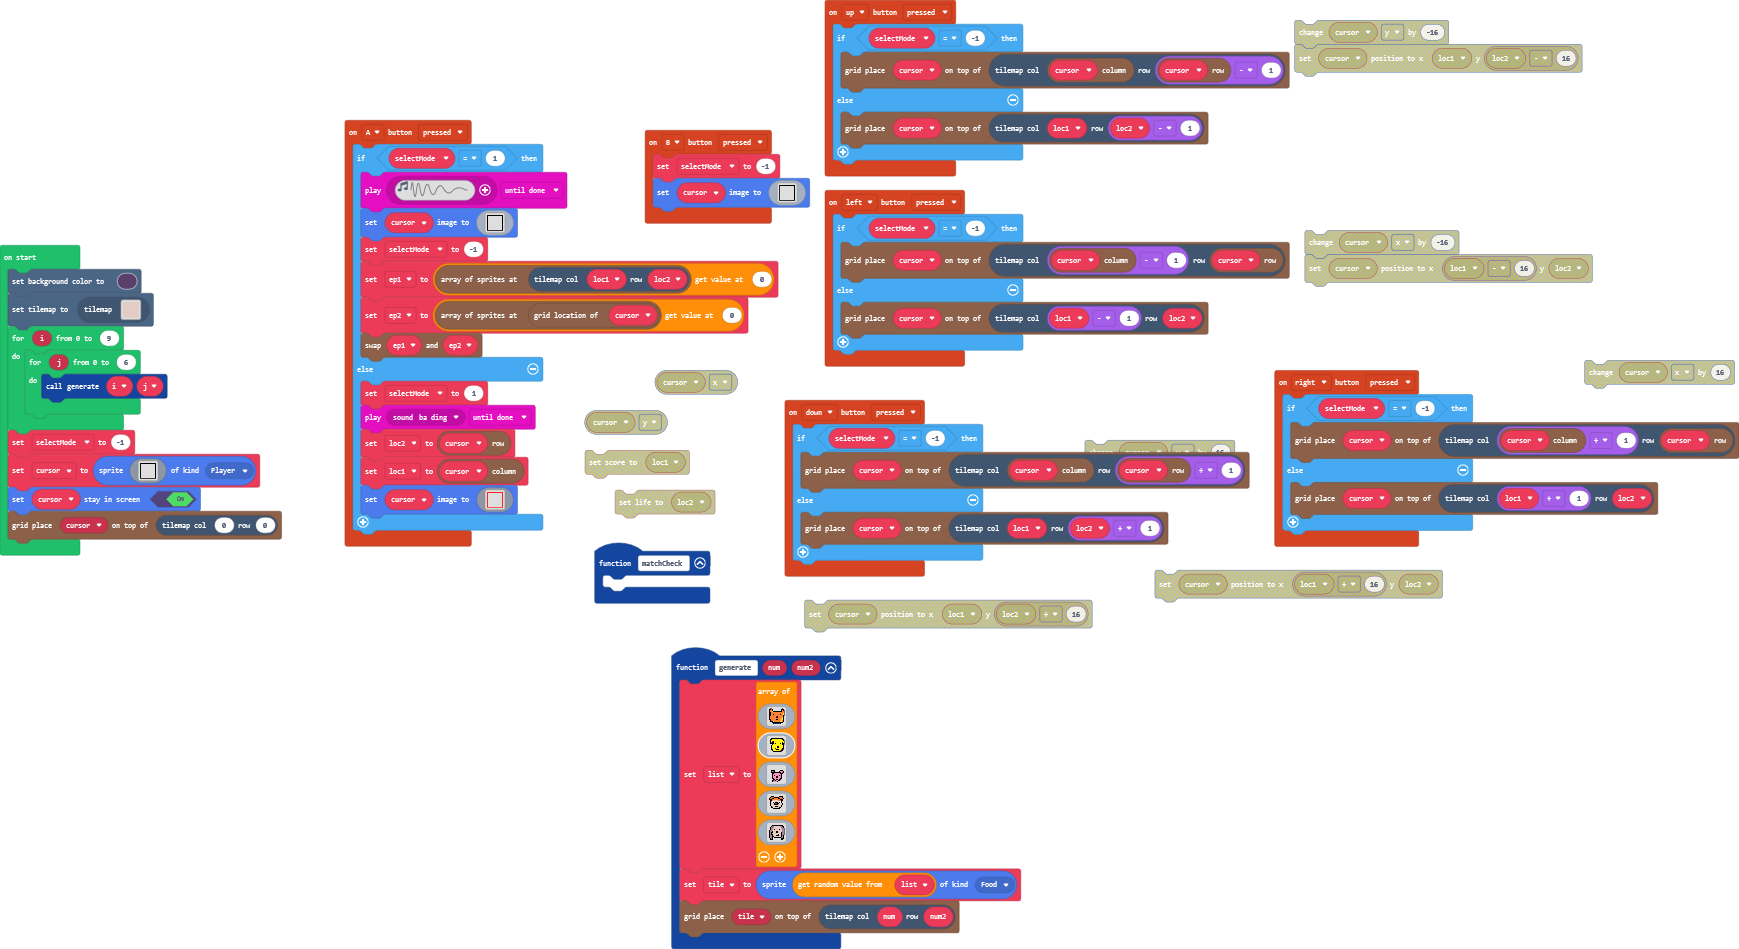
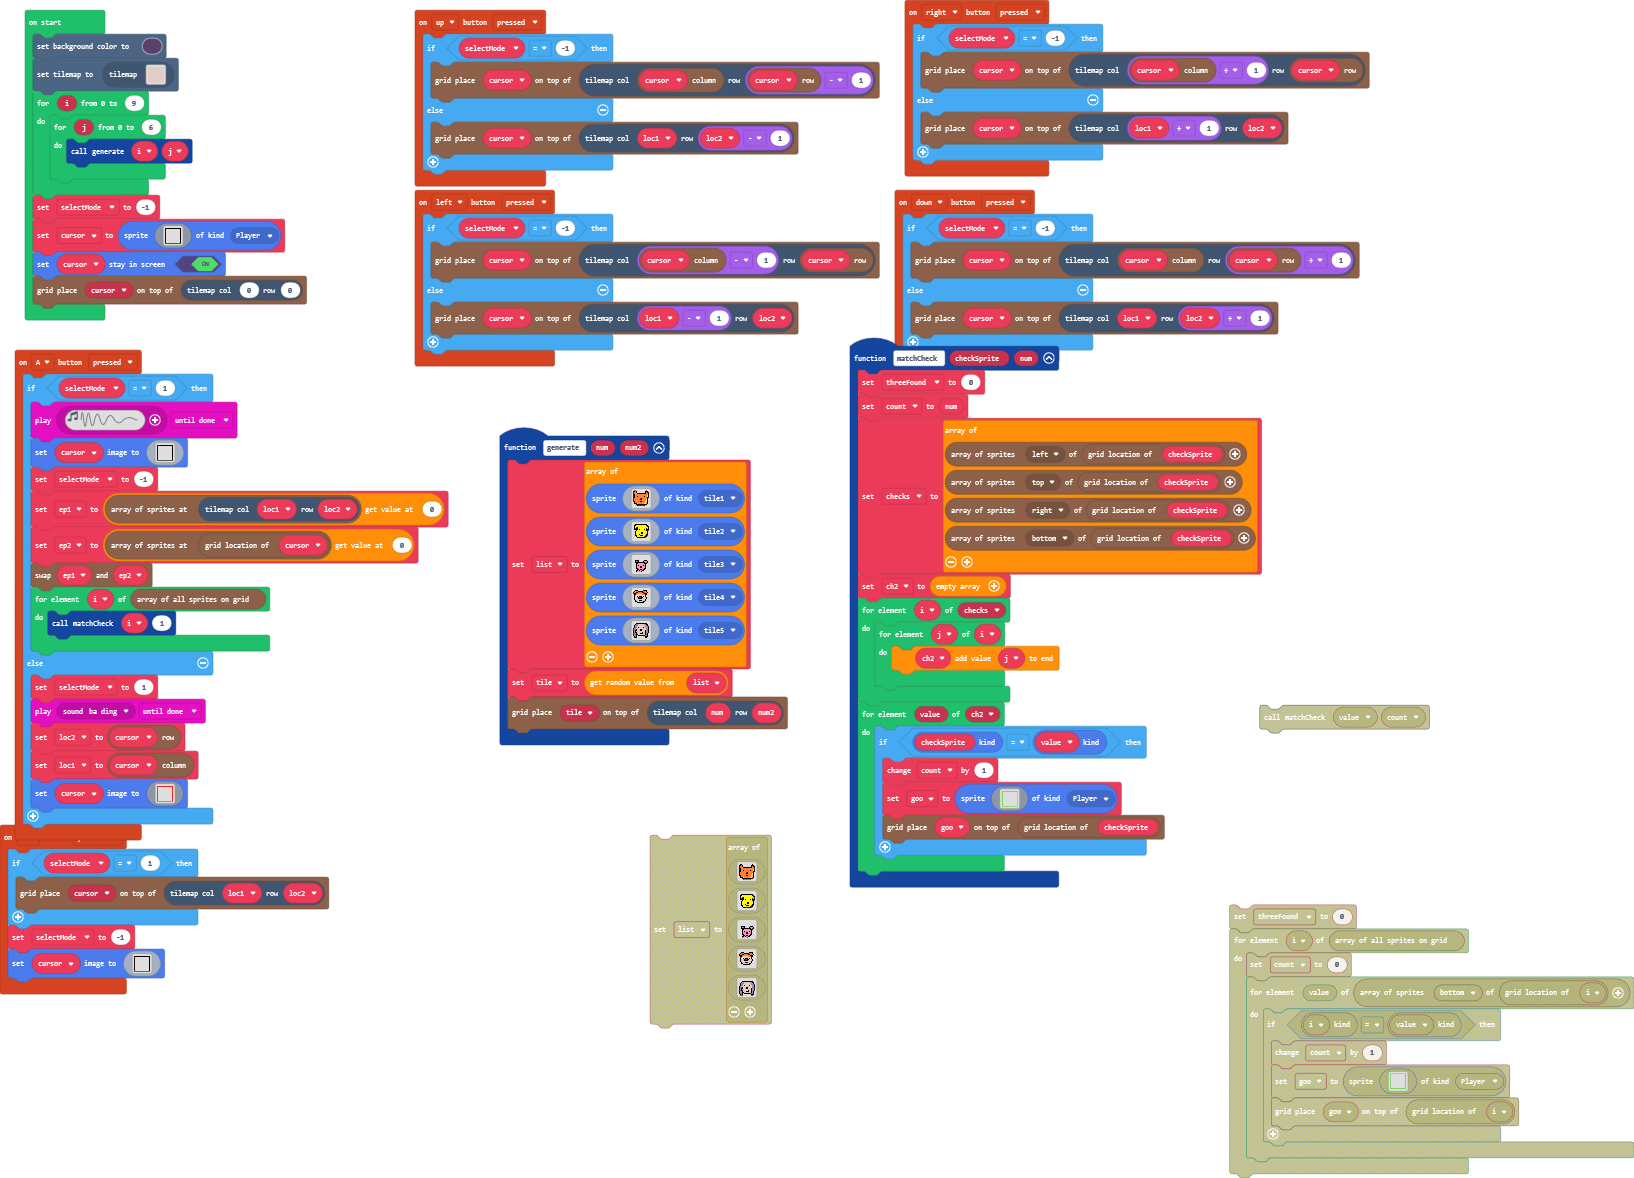
Added swapping and single layer of recursion for match checking.

diff --git a/main.ts b/main.ts
@@ -1,3 +1,10 @@
+namespace SpriteKind {
+    export const tile1 = SpriteKind.create()
+    export const tile2 = SpriteKind.create()
+    export const tile3 = SpriteKind.create()
+    export const tile4 = SpriteKind.create()
+    export const tile5 = SpriteKind.create()
+}
 controller.up.onEvent(ControllerButtonEvent.Pressed, function () {
     if (selectMode == -1) {
         grid.place(cursor, tiles.getTileLocation(grid.spriteCol(cursor), grid.spriteRow(cursor) - 1))
@@ -6,6 +13,9 @@ controller.up.onEvent(ControllerButtonEvent.Pressed, function () {
     }
 })
 controller.B.onEvent(ControllerButtonEvent.Pressed, function () {
+    if (selectMode == 1) {
+        grid.place(cursor, tiles.getTileLocation(loc1, loc2))
+    }
     selectMode = -1
     cursor.setImage(img`
         f f f f f f f f f f f f f f f f 
@@ -51,6 +61,9 @@ controller.A.onEvent(ControllerButtonEvent.Pressed, function () {
         ep1 = grid.getSprites(tiles.getTileLocation(loc1, loc2))[0]
         ep2 = grid.getSprites(grid.getLocation(cursor))[0]
         grid.swap(ep1, ep2)
+        for (let i of grid.allSprites()) {
+            matchCheck(i, 1)
+        }
     } else {
         selectMode = 1
         music.play(music.melodyPlayable(music.baDing), music.PlaybackMode.UntilDone)
@@ -99,7 +112,7 @@ controller.down.onEvent(ControllerButtonEvent.Pressed, function () {
 })
 function generate (num: number, num2: number) {
     list = [
-    img`
+    sprites.create(img`
         . f f . . . . . . . . . . f . . 
         f f 4 f . . . . . . . . f f f . 
         f 4 4 f . . . . . . . . f 4 f f 
@@ -116,8 +129,8 @@ function generate (num: number, num2: number) {
         . f f f 5 4 4 4 4 4 4 5 5 4 f . 
         . . . f f f f f f f f f f f . . 
         . . . . f 8 8 8 8 8 c f . . . . 
-        `,
-    img`
+        `, SpriteKind.tile1),
+    sprites.create(img`
         . . . . . . . . . . . . . . . . 
         . . f f f f f f f f f f f f . . 
         . f f 5 5 5 5 5 5 5 5 5 5 f f . 
@@ -134,8 +147,8 @@ function generate (num: number, num2: number) {
         . . . f 5 5 5 5 5 5 5 e f f . . 
         . . . . f f f f f f f f e . . . 
         . . . . . . . . . . . . . . . . 
-        `,
-    img`
+        `, SpriteKind.tile2),
+    sprites.create(img`
         . . . . . . . . . . . . . . . . 
         . . . . . . . . . . . . . . . . 
         . . . . . . . . . . . . . . . . 
@@ -152,8 +165,8 @@ function generate (num: number, num2: number) {
         . . . . f f 3 f f 3 f f . . . . 
         . . . f f 3 f 3 3 f f . . . . . 
         . . . f 3 3 3 3 f . . . . . . . 
-        `,
-    img`
+        `, SpriteKind.tile3),
+    sprites.create(img`
         . . . . . . . . . . . . . . . . 
         . . f f f . . . . . f f f f . . 
         . f 4 4 4 f f f f f 4 4 4 f . . 
@@ -170,8 +183,8 @@ function generate (num: number, num2: number) {
         . . . . f f f f f f f . . . . . 
         . . . . . . . . . . . . . . . . 
         . . . . . . . . . . . . . . . . 
-        `,
-    img`
+        `, SpriteKind.tile4),
+    sprites.create(img`
         . . . . . . . . . . . . . . . . 
         . . . f f f f f f f f f f f . . 
         . . f b b d d d d d d b b f f . 
@@ -188,16 +201,58 @@ function generate (num: number, num2: number) {
         f b b f . f f f f f f f b b f . 
         . f b f . . . . . . . . f f f . 
         . f f f . . . . . . . . f f . . 
-        `
+        `, SpriteKind.tile5)
     ]
-    tile = sprites.create(list._pickRandom(), SpriteKind.Food)
+    tile = list._pickRandom()
     grid.place(tile, tiles.getTileLocation(num, num2))
 }
-function matchCheck () {
-	
+function matchCheck (checkSprite: Sprite, num: number) {
+    threeFound = 0
+    count = num
+    checks = [
+    grid.lineAdjacentSprites(grid.getLocation(checkSprite), CollisionDirection.Left),
+    grid.lineAdjacentSprites(grid.getLocation(checkSprite), CollisionDirection.Top),
+    grid.lineAdjacentSprites(grid.getLocation(checkSprite), CollisionDirection.Right),
+    grid.lineAdjacentSprites(grid.getLocation(checkSprite), CollisionDirection.Bottom)
+    ]
+    ch2 = []
+    for (let i of checks) {
+        for (let j of i) {
+            ch2.push(j)
+        }
+    }
+    for (let value of ch2) {
+        if (checkSprite.kind() == value.kind()) {
+            count += 1
+            goo = sprites.create(img`
+                7 7 7 7 7 7 7 7 7 7 7 7 7 7 7 7 
+                7 . . . . . . . . . . . . . . 7 
+                7 . . . . . . . . . . . . . . 7 
+                7 . . . . . . . . . . . . . . 7 
+                7 . . . . . . . . . . . . . . 7 
+                7 . . . . . . . . . . . . . . 7 
+                7 . . . . . . . . . . . . . . 7 
+                7 . . . . . . . . . . . . . . 7 
+                7 . . . . . . . . . . . . . . 7 
+                7 . . . . . . . . . . . . . . 7 
+                7 . . . . . . . . . . . . . . 7 
+                7 . . . . . . . . . . . . . . 7 
+                7 . . . . . . . . . . . . . . 7 
+                7 . . . . . . . . . . . . . . 7 
+                7 . . . . . . . . . . . . . . 7 
+                7 7 7 7 7 7 7 7 7 7 7 7 7 7 7 7 
+                `, SpriteKind.Player)
+            grid.place(goo, grid.getLocation(checkSprite))
+        }
+    }
 }
+let goo: Sprite = null
+let ch2: Sprite[] = []
+let checks: Sprite[][] = []
+let count = 0
+let threeFound = 0
 let tile: Sprite = null
-let list: Image[] = []
+let list: Sprite[] = []
 let ep2: Sprite = null
 let ep1: Sprite = null
 let loc2 = 0

diff --git a/tilemap.g.ts b/tilemap.g.ts
@@ -81,6 +81,25 @@ namespace myTiles {
 . . . . . . . . . . . . . . . . 
 . . . . . . . . . . . . . . . . 
 `, [myTiles.transparency16], TileScale.Sixteen);
+            case "level5":
+            case "level5":return tiles.createTilemap(hex`1000100000000000000000000000000000000000000000000000000000000000000000000000000000000000000000000000000000000000000000000000000000000000000000000000000000000000000000000000000000000000000000000000000000000000000000000000000000000000000000000000000000000000000000000000000000000000000000000000000000000000000000000000000000000000000000000000000000000000000000000000000000000000000000000000000000000000000000000000000000000000000000000000000000000000000000000000000000000000000000000000000000000000000000000000000000000000`, img`
+. . . . . . . . . . . . . . . . 
+. . . . . . . . . . . . . . . . 
+. . . . . . . . . . . . . . . . 
+. . . . . . . . . . . . . . . . 
+. . . . . . . . . . . . . . . . 
+. . . . . . . . . . . . . . . . 
+. . . . . . . . . . . . . . . . 
+. . . . . . . . . . . . . . . . 
+. . . . . . . . . . . . . . . . 
+. . . . . . . . . . . . . . . . 
+. . . . . . . . . . . . . . . . 
+. . . . . . . . . . . . . . . . 
+. . . . . . . . . . . . . . . . 
+. . . . . . . . . . . . . . . . 
+. . . . . . . . . . . . . . . . 
+. . . . . . . . . . . . . . . . 
+`, [myTiles.transparency16], TileScale.Sixteen);
         }
         return null;
     })
